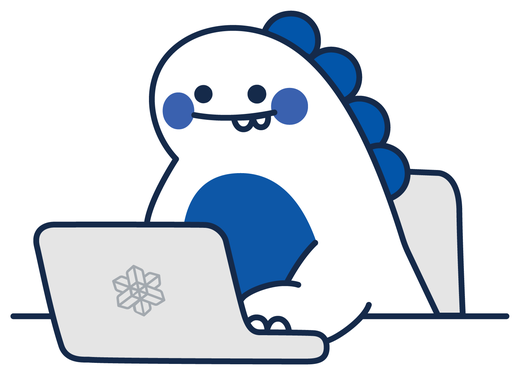
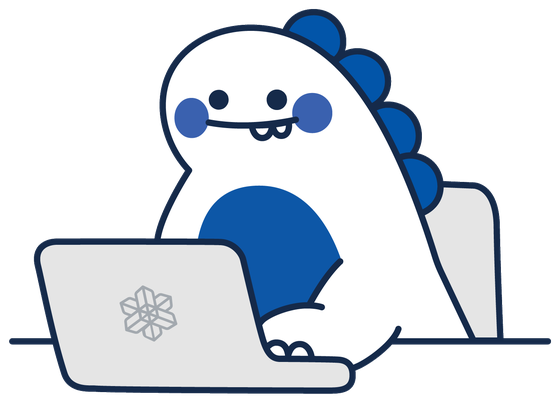
Add files via upload

diff --git a/style.css b/style.css
@@ -37,11 +37,22 @@ tr.cat td{background:var(--soft);font-weight:700;color:var(--pri)}.scroll{overfl
 
 /* 수강생 페이지 전용 */
 .student .hero{display:flex;align-items:center;justify-content:space-between;gap:20px}.student .hero-t{flex:1;min-width:0}
-.student .tino{flex:0 0 auto;width:210px;height:auto;background:#fff;border-radius:22px;padding:6px;display:block}
+.student .tino{flex:0 0 auto;width:240px;height:auto;display:block;margin:-6px -4px -6px 0}
 .student{font-size:18px}.student .logo{height:48px}
 .student .hero h1{font-size:28px}.student .hero p,.student .hero small{font-size:16px}
 .student .card h2{font-size:19px}.student .card h2 .note,.student .mut{font-size:15px}
 .student .opts span{font-size:15px}.student .opts b{font-size:19px}
 .student .q label.ql{font-size:18px}.student .err{font-size:16px}
-@media(max-width:600px){.student .tino{width:96px;border-radius:14px}.student .logo{height:38px}}
+@media(max-width:600px){.student .tino{width:110px}.student .logo{height:38px}.student .bar{padding:16px 18px}.student .card{padding:22px 20px}}
 @media(max-width:520px){.student .opts span{font-size:12.5px}.student .hero h1{font-size:23px}.student .hero{gap:12px}}
+
+/* 여백 조정 */
+.student .bar{padding:24px 18px}
+.student .hero{padding:30px 32px}
+.student .card{padding:32px 34px 28px;margin-bottom:20px}
+.student .card h2{margin:0 0 18px}
+.student .q{padding:20px 0}
+.student .q:first-of-type{padding-top:4px}
+.student .q label.ql{margin-bottom:14px}
+.student .q p{margin-bottom:14px}
+@media(max-width:600px){.student .bar{padding:16px 18px}.student .hero{padding:22px 20px}.student .card{padding:22px 20px 18px}.student .q{padding:16px 0}}
